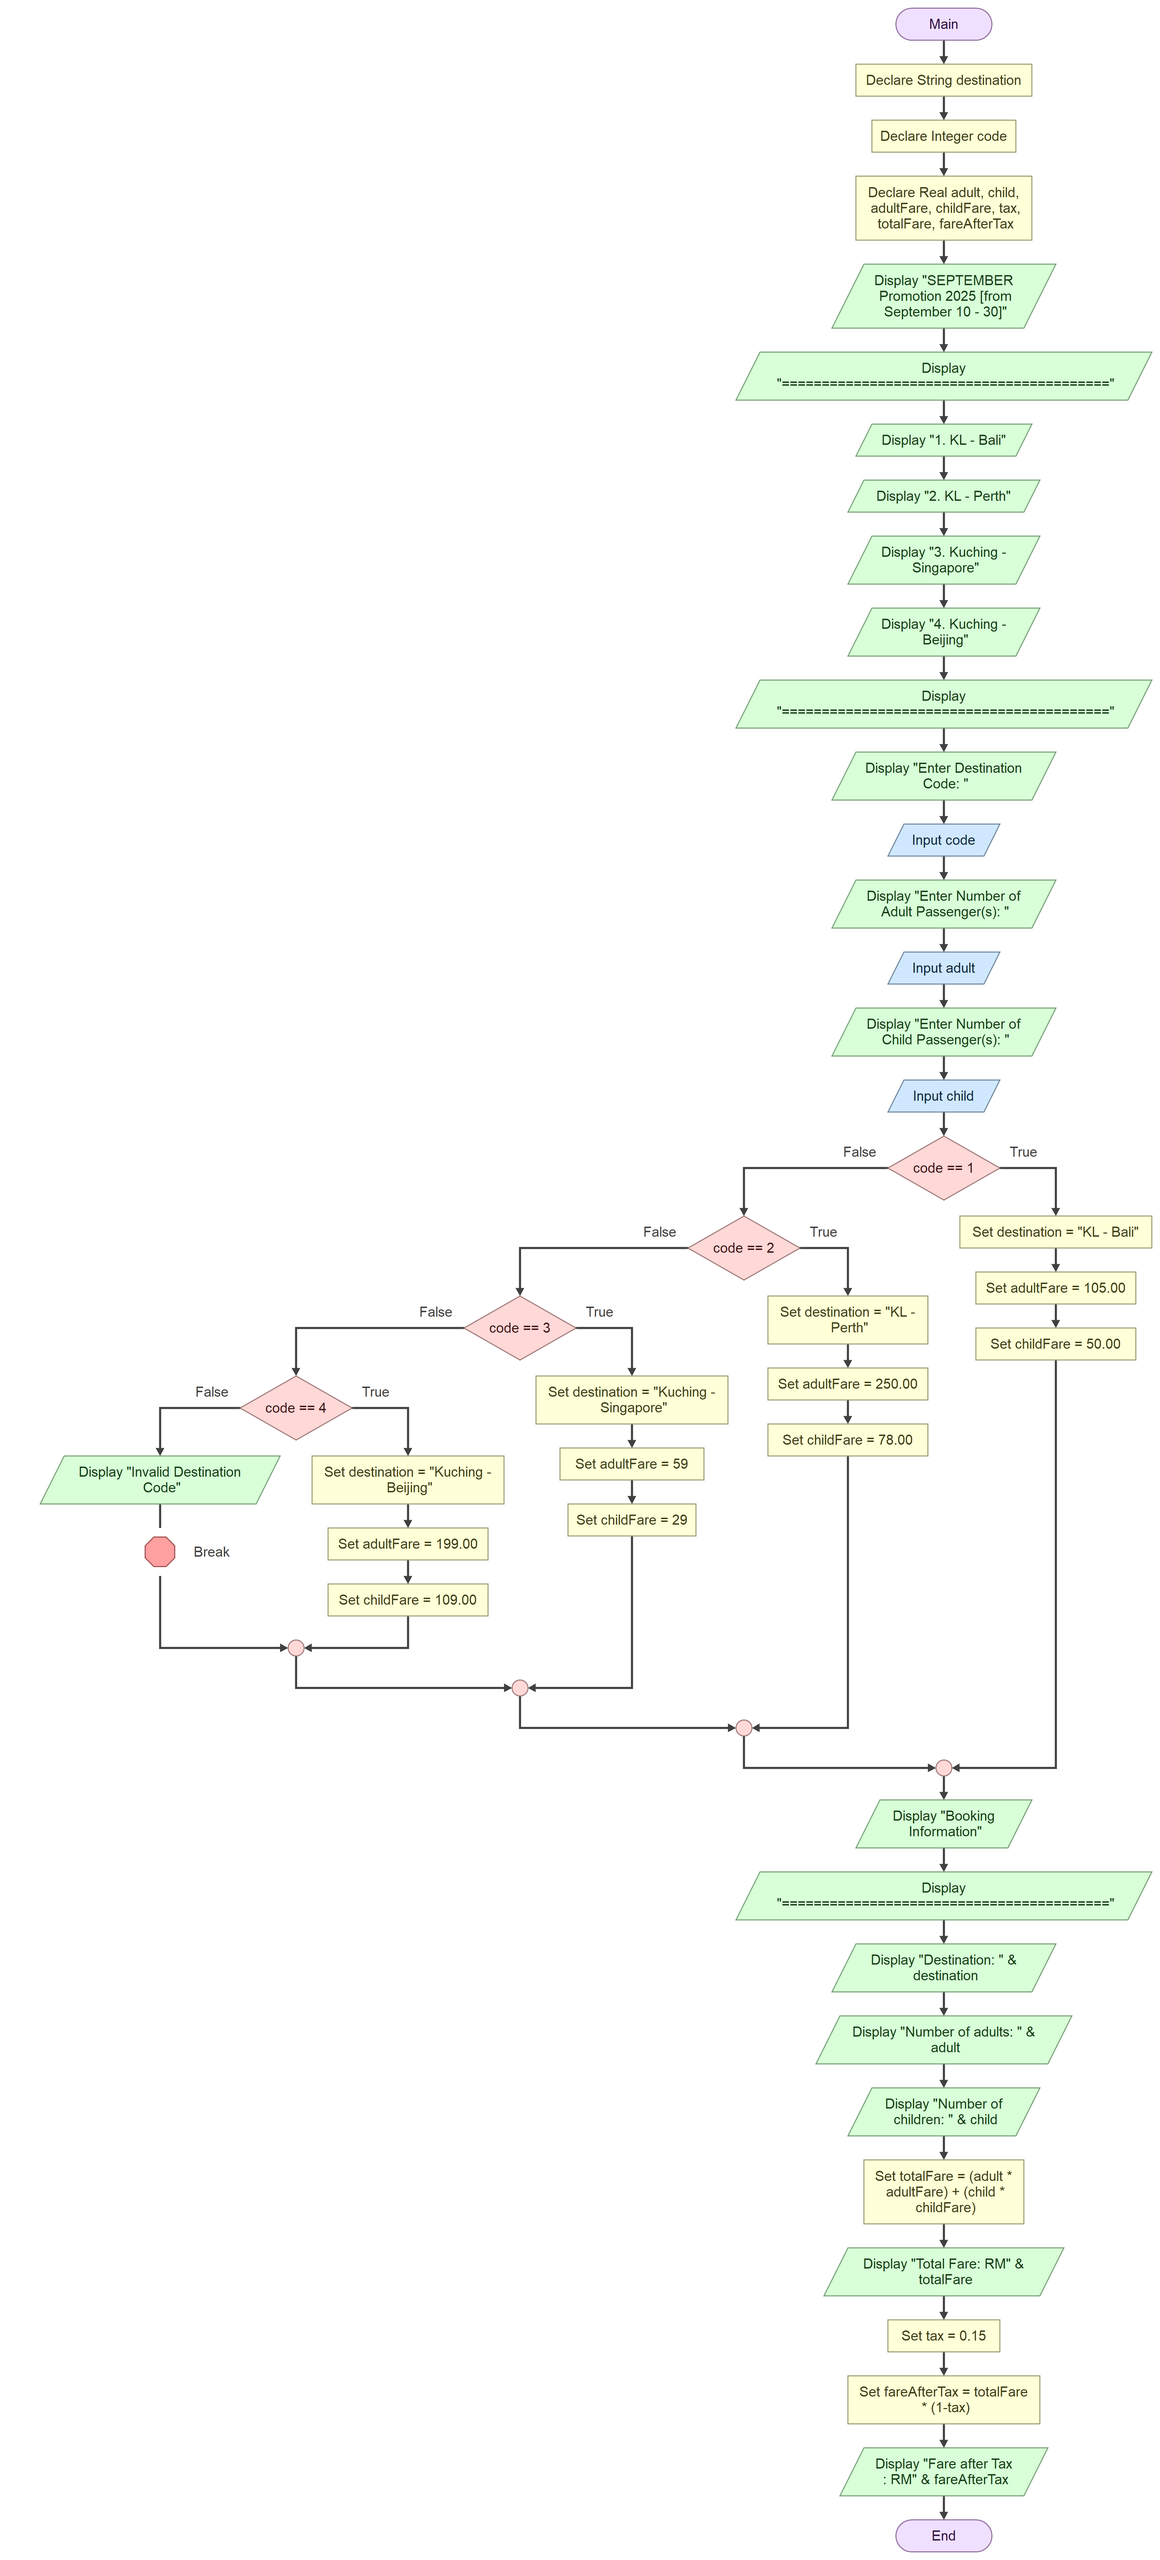
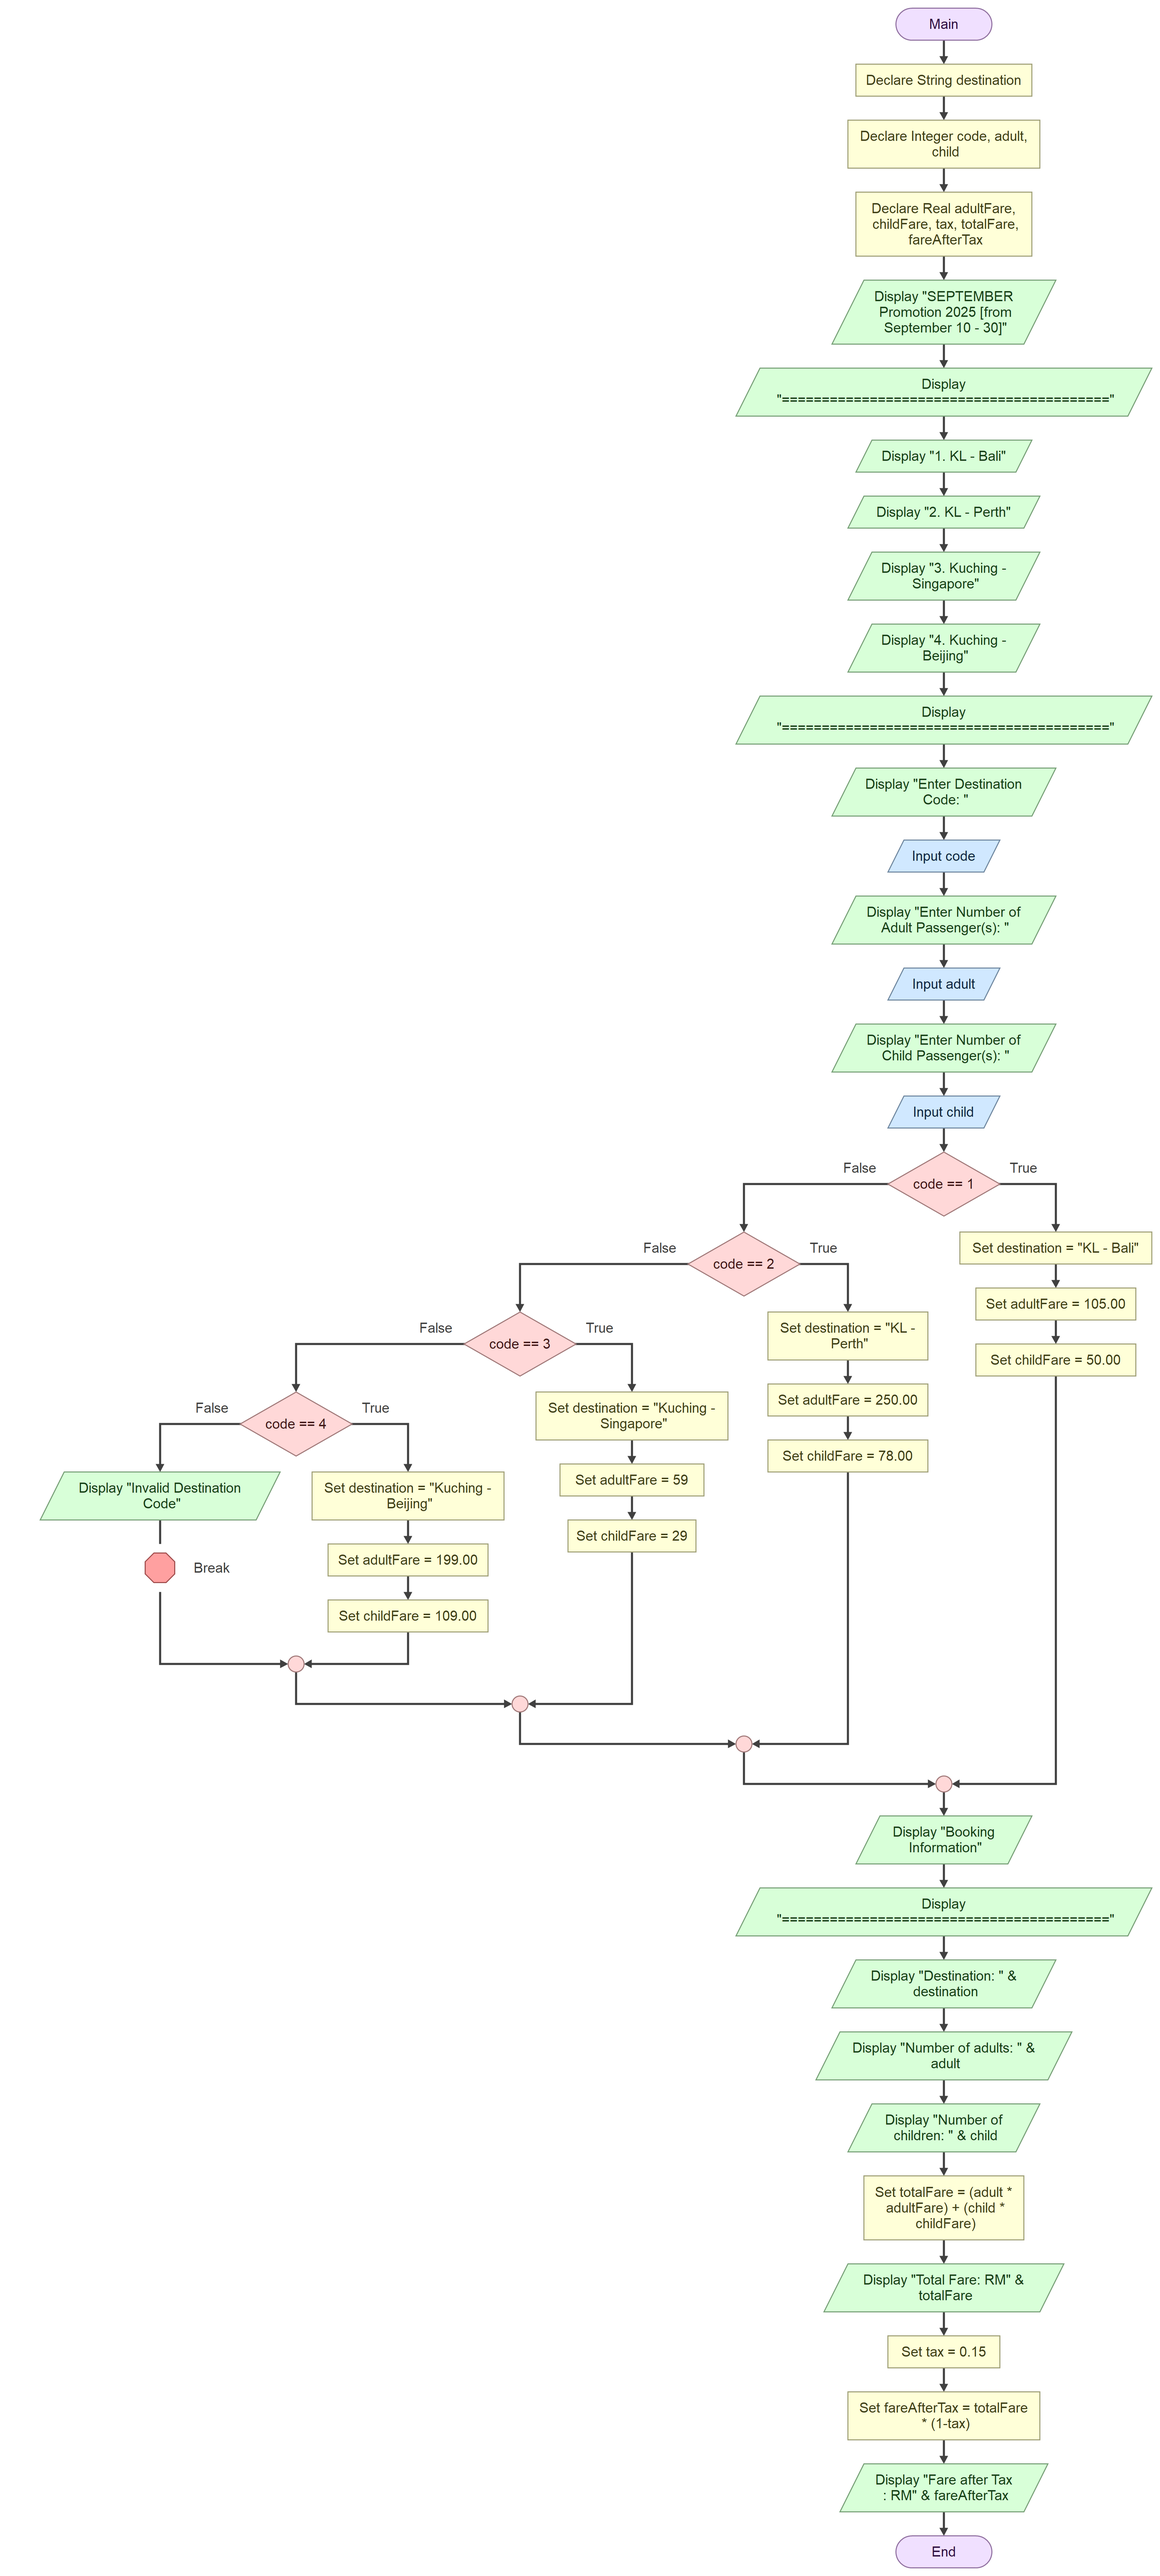
Updated Answers

diff --git a/CSC121/W7 Selection Exercise/Exercise 1/03. Pseudocode.md b/CSC121/W7 Selection Exercise/Exercise 1/03. Pseudocode.md
@@ -1,8 +1,8 @@
     Start
 
         Declare String destination
-        Declare Integer code
-        Declare Real adult, child, adultFare, childFare, tax, totalFare, fareAfterTax
+        Declare Integer code, adult, child
+        Declare Real adultFare, childFare, tax, totalFare, fareAfterTax
 
         Display "SEPTEMBER Promotion 2025 [from September 10 - 30]"
         Display "========================================="
